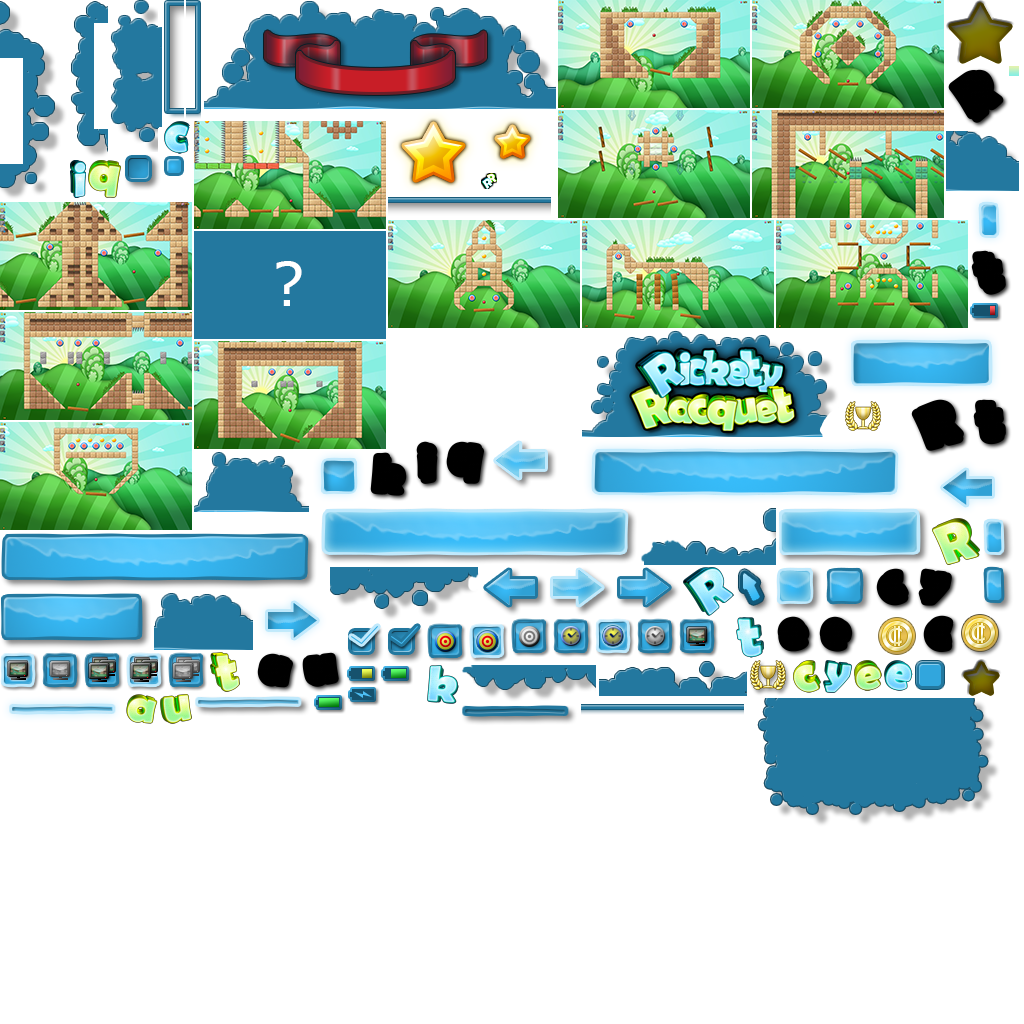
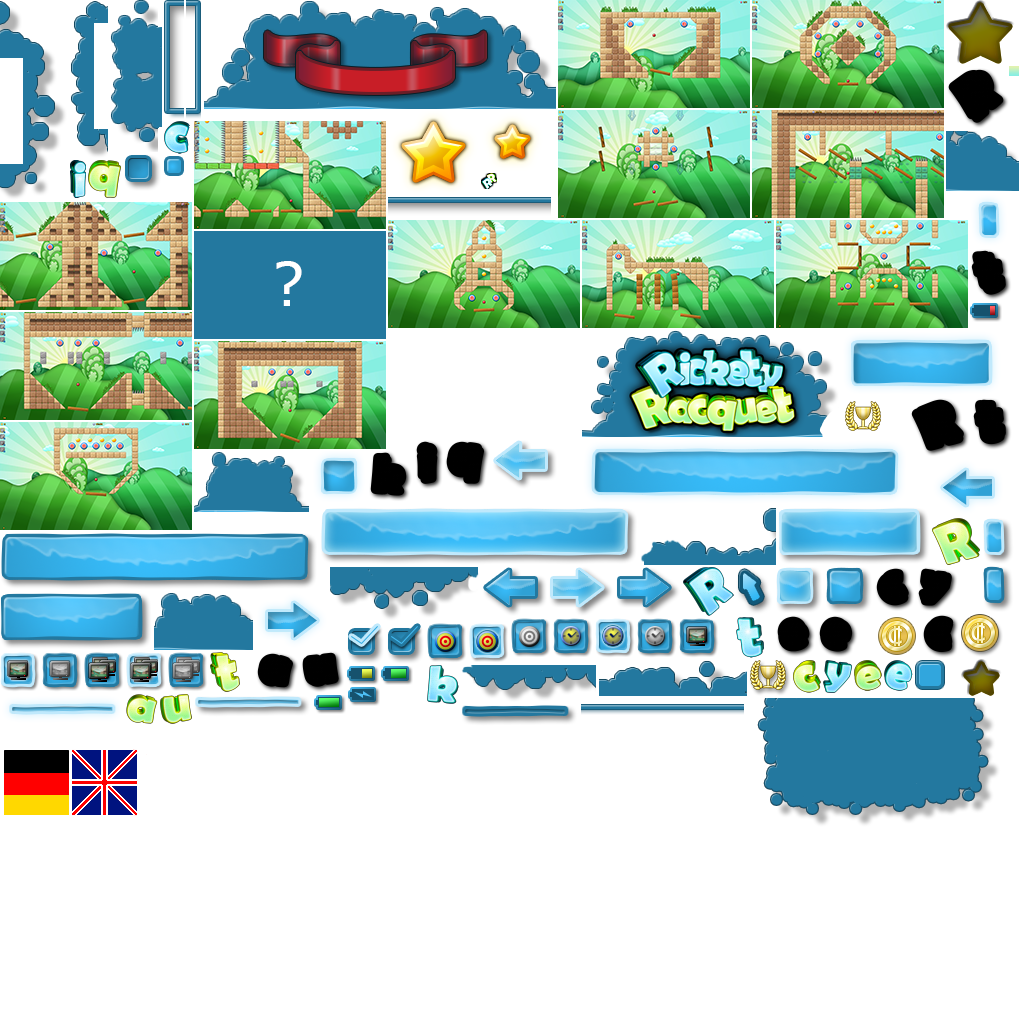
[328] add code for change language in MainMenu

Changed region(s): [[0.0, 0.7188, 0.1562, 0.8125]]

diff --git a/Source/FirstParty/Src/resources/MenuLoader.cpp b/Source/FirstParty/Src/resources/MenuLoader.cpp
@@ -126,7 +126,6 @@ std::vector<std::unique_ptr<Button>> MenuLoader::parseButtons(
             std::string textResourceKey;
             if(text != nullptr && std::string(text) != "")
                 textResourceKey = text;
-                //TO DO textResourceKey = utility::translateKey(text);
 
             style.idleStyle.label = LineLabel(
                 textResourceKey, 
@@ -155,7 +154,6 @@ std::vector<std::unique_ptr<Button>> MenuLoader::parseButtons(
                 if(tooltip == end(toolTip))
                     throw std::runtime_error(utility::replace(utility::translateKey("UnknownButtonToolTip"), buttonXml->Attribute("tooltip")));
                 button->setToolTip(tooltip->second);
-                // TO DO button->setToolTipText(utility::translateKey(buttonXml->Attribute("tooltiptext")));
                 button->setToolTipText(buttonXml->Attribute("tooltiptext"));
             }
 
@@ -193,7 +191,6 @@ std::vector<std::unique_ptr<CheckBox>> MenuLoader::parseCheckBoxes(
                 if(tooltip == end(toolTip))
                     throw std::runtime_error(utility::replace(utility::translateKey("UnknownToolTip"), checkboxXml->Attribute("tooltip")));
                 checkBox->setToolTip(tooltip->second);
-                //TO DO checkBox->setToolTipText(utility::translateKey(checkboxXml->Attribute("tooltiptext")));
                 checkBox->setToolTipText(checkboxXml->Attribute("tooltiptext"));
             }
             if(auto visibleWhenId = checkboxXml->IntAttribute("visibleWhen"))
@@ -275,7 +272,6 @@ std::vector<std::unique_ptr<InteractiveLabel>> MenuLoader::parseInteractiveLabel
             labelXml != nullptr; labelXml = labelXml->NextSiblingElement("ilabel"))
         {
             auto label = std::unique_ptr<InteractiveLabel>(new InteractiveLabel(
-                            /* TO DO utility::translateKey(labelXml->Attribute("text")), */
                             labelXml->Attribute("text"),
                             sf::Vector2f(labelXml->FloatAttribute("x"), labelXml->FloatAttribute("y")),
                             sf::Vector2f(labelXml->FloatAttribute("offsetx"), labelXml->FloatAttribute("offsety")),
@@ -295,7 +291,6 @@ std::vector<std::unique_ptr<InteractiveLabel>> MenuLoader::parseInteractiveLabel
                     throw std::runtime_error(utility::replace(utility::translateKey("UnknownButtonToolTip"), labelXml->Attribute("tooltip")));
 
                 label->setToolTip(tooltip->second);
-                // TO DO label->setToolTipText(utility::translateKey(labelXml->Attribute("tooltiptext")));
                 label->setToolTipText(labelXml->Attribute("tooltiptext"));
             }
 
@@ -330,7 +325,6 @@ std::vector<std::unique_ptr<MenuSprite>> MenuLoader::parseImages(
                 if(tooltipIt == end(toolTip))
                     throw std::runtime_error(utility::replace(utility::translateKey("UnknownToolTip"), imageXml->Attribute("tooltip")));
                 auto tooltip = tooltipIt->second;
-                //TO DO tooltip.setText(utility::translateKey(toolTipText));
                 tooltip.setText(toolTipText);
                 sprite->setToolTip(tooltip);
             }

diff --git a/Source/FirstParty/Src/state/MainMenuState.cpp b/Source/FirstParty/Src/state/MainMenuState.cpp
@@ -12,6 +12,7 @@
 #include <SFML/Graphics/RectangleShape.hpp>
 #include <SFML/Window/Keyboard.hpp>
 #include <SFML/Window/Event.hpp>
+#include "../gui/SubWindow.hpp"
 
 MainMenuState::MainMenuState(sf::RenderWindow& screen,
                              ResourceManager& resourceManager,
@@ -30,6 +31,15 @@ MainMenuState::~MainMenuState()
 void MainMenuState::onEnter(const EnterStateInformation* enterInformation, const float time)
 {
     State::onEnter(enterInformation, time);
+
+    auto language = m_config.get<std::string>("language");
+
+    if(language == "en_")
+        m_menu.showEnglishLanguage();
+    if(language == "de_")
+        m_menu.showGermanLanguage();
+
+    m_menu.showLanguageSelect(false);
 }
 
 StateChangeInformation MainMenuState::update(const float time)
@@ -43,7 +53,11 @@ StateChangeInformation MainMenuState::update(const float time)
     }
 
     int clicked = -1;
+    int subWindowClicked = -1;
+
     m_menu.registerOnClick([&](const Button& sender){ clicked = sender.getId(); });
+    m_menu.getSubWindow(MainMenu::SUBWINDOW_SELECT_LANGUAGE).getPanel()->registerOnClick([&](const Button& sender){ subWindowClicked = sender.getId(); });
+    
     m_menu.update(m_screen, getPassedTime());
 
     if(clicked == MainMenu::BUTTON_START_NEW_GAME)
@@ -109,7 +123,20 @@ StateChangeInformation MainMenuState::update(const float time)
         m_transitionStateInfo.m_onEnterInformation = &m_optionStateInfo;
         return StateChangeInformation(TransitionStateId, &m_transitionStateInfo);
     }
-
+    else if(clicked == MainMenu::BUTTON_GERMAN_SHOW || clicked == MainMenu::BUTTON_ENGLISH_SHOW)
+        m_menu.showLanguageSelect(true);
+    else if(subWindowClicked == MainMenu::BUTTON_GERMAN_SELECT)
+    {
+        m_menu.showGermanLanguage();
+        m_menu.showLanguageSelect(false);
+        m_config.set("language", "de_");
+    }
+    else if(subWindowClicked == MainMenu::BUTTON_ENGLISH_SELECT)
+    {
+        m_menu.showEnglishLanguage();
+        m_menu.showLanguageSelect(false);
+        m_config.set("language", "en_");
+    }
     return StateChangeInformation::Empty();
 }
 

diff --git a/Source/FirstParty/Src/App.cpp b/Source/FirstParty/Src/App.cpp
@@ -60,7 +60,8 @@ App::App(AppConfig& config) :
     m_shaderContext(),
     m_resourceManager(m_shaderContext, m_config),
     m_achievementManager("Achievement.dat", m_config),
-    m_musicPlayer(m_config, m_resourceManager.getMusic(), MusicPlayer::Normal)
+    m_musicPlayer(m_config, m_resourceManager.getMusic(), MusicPlayer::Normal),
+    m_selectedLanguage(m_config.get<std::string>("lanuage"))
 {
     gl::sys::LoadFunctions();
     int maxTextureSize = 0;
@@ -183,6 +184,13 @@ void App::update()
     m_resourceManager.getSoundManager().update();
     m_shaderContext.update();
     m_stateManager.update();
+
+    if(m_selectedLanguage != m_config.get<std::string>("language"))
+    {
+        m_selectedLanguage = m_config.get<std::string>("language");
+        m_stateManager.setLanguage(m_selectedLanguage);
+    }
+
     m_musicPlayer.update();
 
     if(!m_isMinimized)
@@ -275,17 +283,6 @@ void App::handleKeyboard()
         // notify the state manager to pause all states and prevent messing arround with
         // keyboard or mouse (PlayState for example) - waiting for FocusLost would be too late
         m_stateManager.passEvent(utility::Event::LostFocus);
-    }
-
-    if(utility::Keyboard.isKeyReleased(sf::Keyboard::E))
-    {
-        m_config.set<std::string>("language", "en_");
-        m_stateManager.setLanguage("en_");
-    }
-    if(utility::Keyboard.isKeyReleased(sf::Keyboard::D))
-    {
-        m_config.set<std::string>("language", "de_");
-        m_stateManager.setLanguage("de_");
     }
 }
 

diff --git a/Source/FirstParty/Src/gui/MainMenu.cpp b/Source/FirstParty/Src/gui/MainMenu.cpp
@@ -1,9 +1,28 @@
 #include "MainMenu.hpp"
 
 #include "../resources/ResourceManager.hpp"
+#include "Button.hpp"
+#include "SubWindow.hpp"
 
 MainMenu::MainMenu(sf::RenderWindow& screen,
                    ResourceManager& resourceManager) :
     Menu(*resourceManager.getMenuTemplate("MainMenu"), screen)
 {
+}
+
+void MainMenu::showGermanLanguage() const
+{
+    Menu::getButton(BUTTON_GERMAN_SHOW).setVisible(true);
+    Menu::getButton(BUTTON_ENGLISH_SHOW).setVisible(false);
+}
+
+void MainMenu::showEnglishLanguage() const
+{
+    Menu::getButton(BUTTON_ENGLISH_SHOW).setVisible(true);
+    Menu::getButton(BUTTON_GERMAN_SHOW).setVisible(false);
+}
+
+void MainMenu::showLanguageSelect(bool show) const
+{
+    Menu::getSubWindow(SUBWINDOW_SELECT_LANGUAGE).setVisible(show);
 }

diff --git a/Source/FirstParty/Src/gui/MainMenu.hpp b/Source/FirstParty/Src/gui/MainMenu.hpp
@@ -15,8 +15,21 @@ public:
     static const int BUTTON_CREDITS = 3;
     static const int BUTTON_CLOSE = 4;
     static const int BUTTON_ACHIEVEMENT = 6;
+    
+    static const int BUTTON_GERMAN_SHOW = 7;
+    static const int BUTTON_ENGLISH_SHOW = 8;
+
+    static const int SUBWINDOW_SELECT_LANGUAGE = 9;
+
+    static const int BUTTON_GERMAN_SELECT = 10;
+    static const int BUTTON_ENGLISH_SELECT = 11;
 
     MainMenu(sf::RenderWindow& screen, ResourceManager& resourceManager);
+
+    void showGermanLanguage() const;
+    void showEnglishLanguage() const;
+
+    void showLanguageSelect(bool show) const;
 };
 
 #endif // MAIN_MENU_HPP

diff --git a/Source/FirstParty/Src/App.hpp b/Source/FirstParty/Src/App.hpp
@@ -62,6 +62,8 @@ private:
     StateManager m_stateManager;
     AchievementManager m_achievementManager;
     MusicPlayer m_musicPlayer;
+
+    std::string m_selectedLanguage;
 };
 
 #endif // APP_HPP
